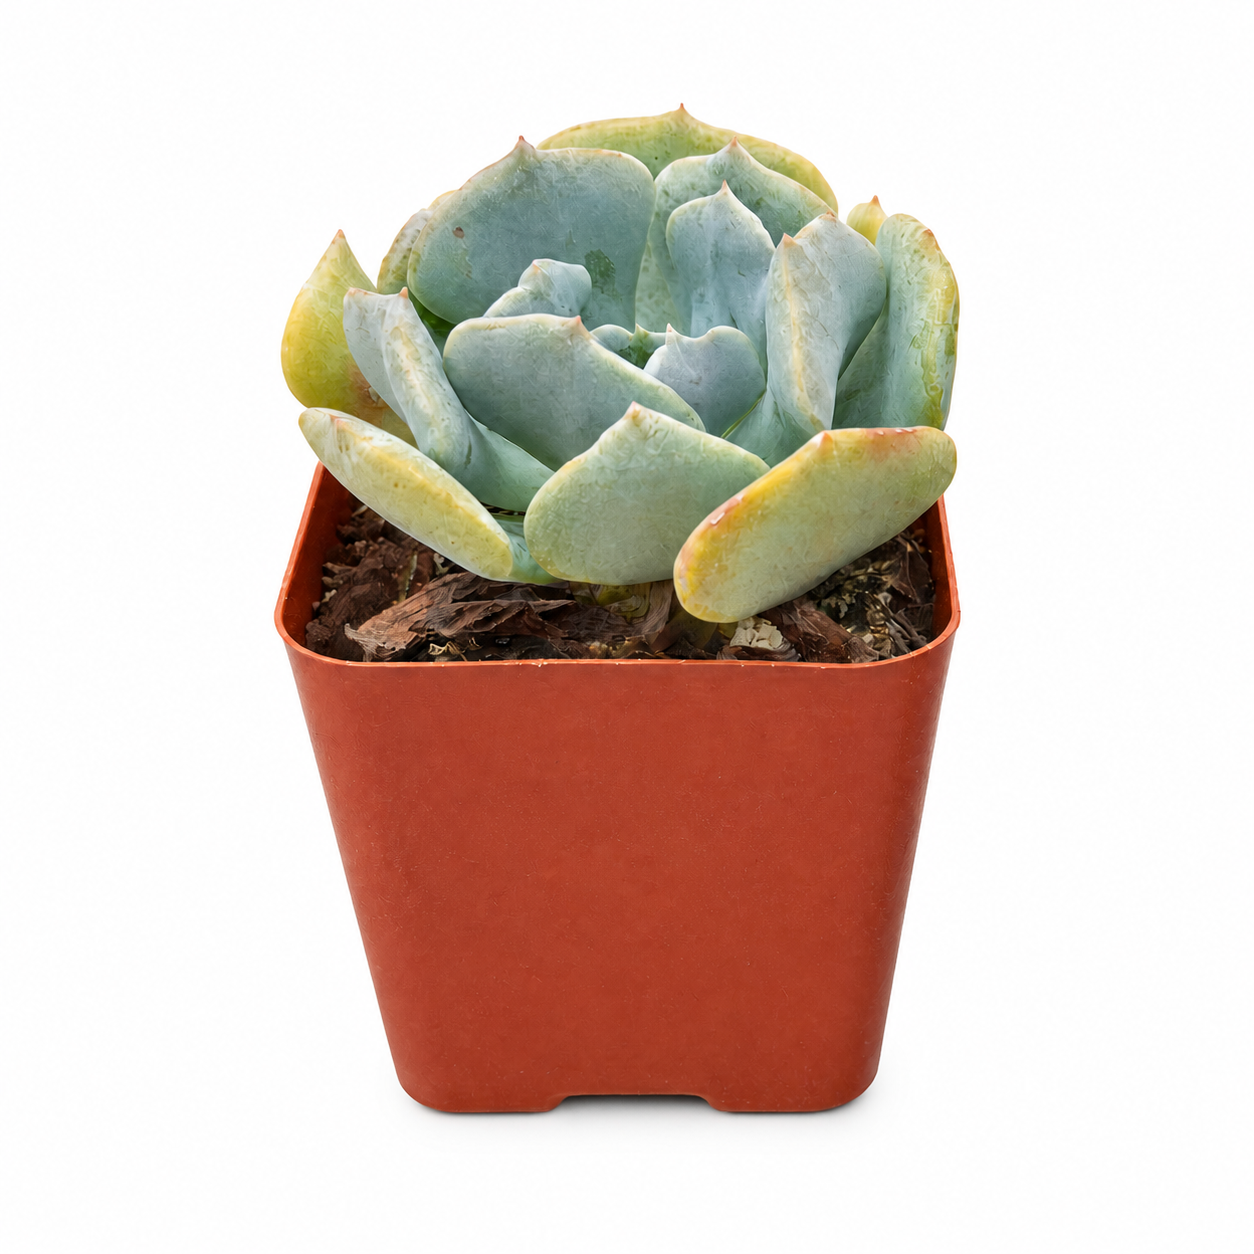
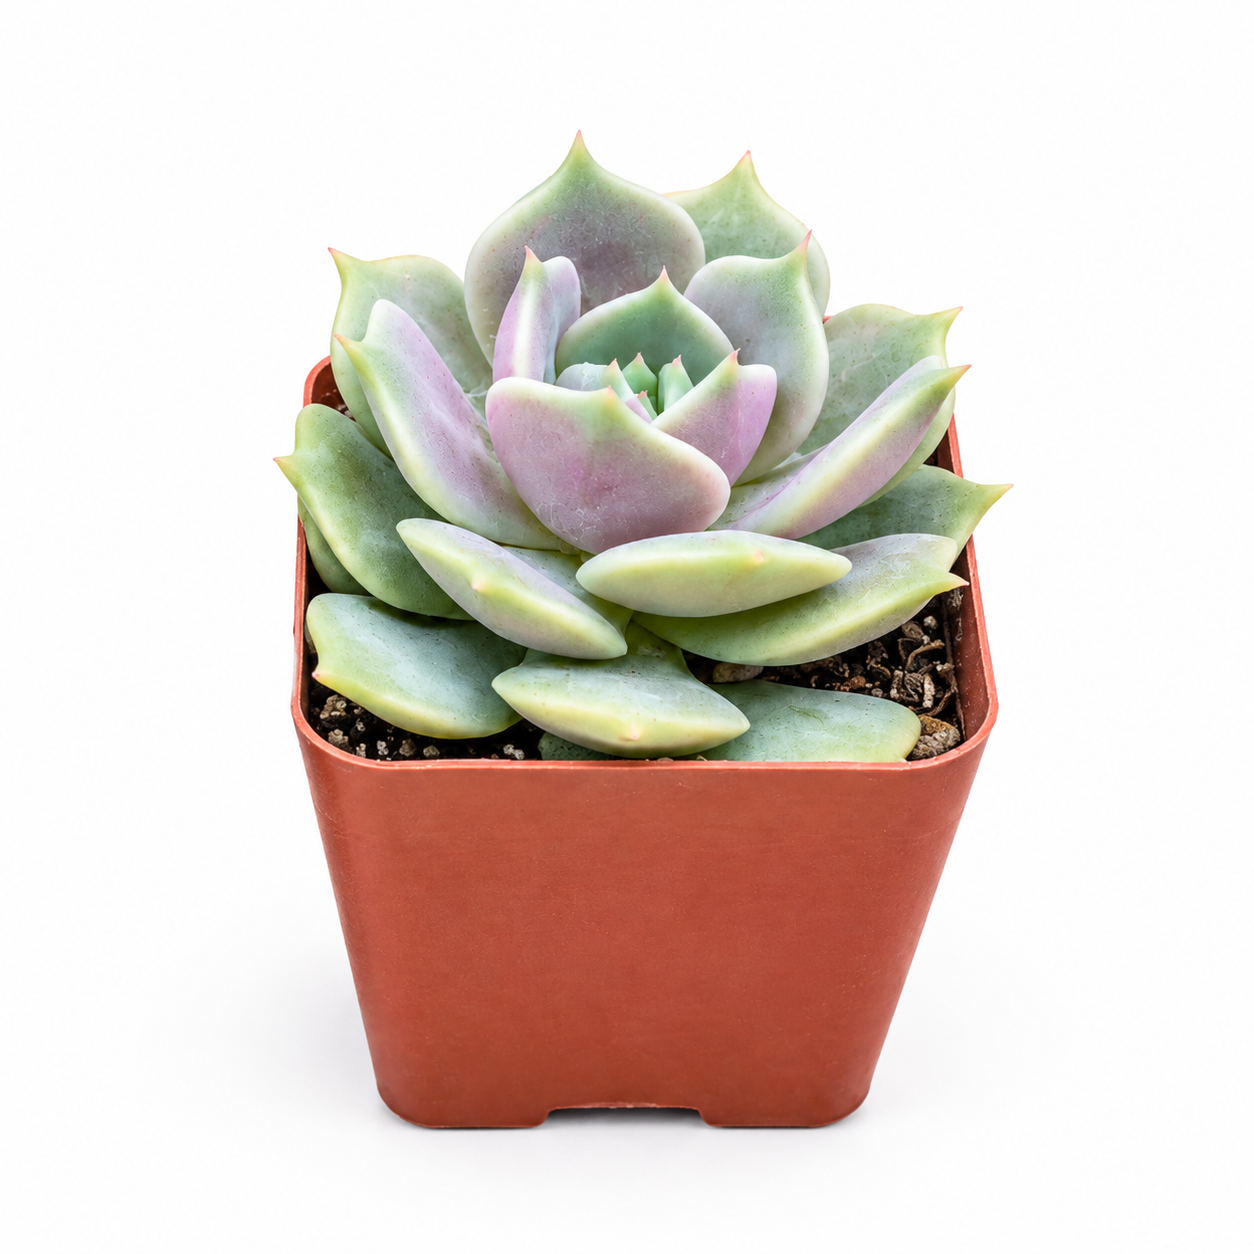
Add plants 256-259 and update images

Changed region(s): [[0.2177, 0.0622, 0.8086, 0.9019], [0.4976, 0.6842, 0.5287, 0.7153], [0.4354, 0.7153, 0.4665, 0.7464]]

diff --git a/index.html b/index.html
@@ -221,7 +221,11 @@ const plants=[
 {id:252,cn:"Blue Echeveria",la:"Echeveria sp.",light:"Requires full sun to partial shade. At least 4–6 hours of direct sunlight is needed to keep the rosette tight. Insufficient light causes the plant to flatten and stretch.",water:"Use the \"soak and dry\" method. Water deeply until it runs out the drainage holes, then wait until the soil is 100% dry before watering again. Avoid getting water on the leaves to prevent rot.",temp:"Ideal range is 18°C–27°C. Most Echeverias are not frost-hardy and must be protected from temperatures below -1°C.",fert:"Apply a low-nitrogen, high-phosphorus fertilizer in the spring. Over-fertilizing can cause weak, leggy growth.",tips:["Protect the Farina: The white powdery coating on the leaves protects the plant from sunburn and pests. Handle the plant by the base/stem, not the leaves, to avoid wiping this powder off","Drainage is Critical: These plants hate \"wet feet.\" Ensure your pot has large drainage holes and use a gritty, fast-draining soil mix (cactus/succulent mix with added perlite)","Remove Dead Leaves: As the plant grows, lower leaves may shrivel and die. Gently remove them to prevent pests from hiding in the decaying matter"]},
 {id:253,cn:"Buddha's Temple",la:"Crassula 'Buddha's Temple'",light:"Bright, indirect light to partial direct sun. While they need light to stay compact, intense afternoon sun can scorch the leaves. East-facing windows are ideal.",water:"Allow the top inch of soil to dry out between waterings. Because the leaves are stacked tightly, water can get trapped inside the stem, leading to rot. Water carefully around the base.",temp:"Prefers average room temperatures between 15°C–24°C. Protect from drafts and freezing temperatures.",fert:"Feed monthly during the active growing season (spring/summer) with a balanced liquid fertilizer diluted to half strength.",tips:["Avoid Top-Watering: Never pour water directly onto the top of the \"stack.\" This causes the inner leaves to rot quickly. Always water the soil directly","Top-Heavy Stability: As these grow tall, they become top-heavy and can tip over. Use a heavy ceramic pot or stake the plant if it gets too tall","Propagation by Cuttings: Unlike the Jelly Bean plant, this one is best propagated by stem cuttings. Cut a healthy section of the stack, let it callous over for a few days, and then plant it in dry soil"]},
 {id:254,cn:"Red Edge Peperomia",la:"Peperomia clusiifolia",light:"Prefers bright, indirect light. It can tolerate some direct morning sun, which helps maintain the red pigmentation in the leaves, but avoid harsh afternoon sun that can scorch them.",water:"Allow the top 1–2 inches of soil to dry out completely between waterings. As a semi-succulent, it stores water in its thick leaves and is prone to root rot if kept soggy.",temp:"Ideal range is 18°C–24°C. Avoid temperatures below 10°C and keep away from cold drafts.",fert:"Feed with a balanced liquid houseplant fertilizer diluted to half strength once a month during spring and summer. Do not fertilize in fall and winter.",tips:["Check Leaf Firmness: If the leaves feel soft or mushy, you are overwatering. If they look wrinkled or shriveled, the plant is thirsty","Humidity Matters: While adaptable, this plant appreciates moderate humidity. If your home is very dry, consider placing it on a pebble tray with water","Wipe the Leaves: The broad, thick leaves can collect dust, which blocks sunlight. Wipe them gently with a damp cloth every few weeks"]},
-{id:255,cn:"Coral Cactus",la:"Euphorbia lactea 'Cristata'",light:"Requires very bright light. Ideally, place it in a south-facing window where it can get several hours of direct sunlight daily. Insufficient light will cause the crest to stretch and weaken.",water:"Water deeply but infrequently. Let the soil dry out completely before watering again. In winter, reduce watering significantly as the plant goes dormant.",temp:"Thrives in warm conditions between 21°C–29°C. It is sensitive to cold and should never be exposed to freezing temperatures.",fert:"Use a cactus/succulent-specific fertilizer during the active growing season (spring/summer). Apply sparingly, as too much nitrogen can cause rapid, weak growth.",tips:["Watch for White Sap: Like all Euphorbias, this plant produces a milky white latex sap when cut or damaged. This sap is toxic and can irritate skin and eyes, so wear gloves when handling","Well-Draining Soil is Critical: Use a gritty cactus mix with added perlite or pumice. Standard potting soil holds too much moisture and will quickly rot the roots","Graft Awareness: Most Coral Cacti sold are actually two different species grafted together. Watch for any green shoots growing from the bottom stem and remove them immediately"]}
+{id:255,cn:"Coral Cactus",la:"Euphorbia lactea 'Cristata'",light:"Requires very bright light. Ideally, place it in a south-facing window where it can get several hours of direct sunlight daily. Insufficient light will cause the crest to stretch and weaken.",water:"Water deeply but infrequently. Let the soil dry out completely before watering again. In winter, reduce watering significantly as the plant goes dormant.",temp:"Thrives in warm conditions between 21°C–29°C. It is sensitive to cold and should never be exposed to freezing temperatures.",fert:"Use a cactus/succulent-specific fertilizer during the active growing season (spring/summer). Apply sparingly, as too much nitrogen can cause rapid, weak growth.",tips:["Watch for White Sap: Like all Euphorbias, this plant produces a milky white latex sap when cut or damaged. This sap is toxic and can irritate skin and eyes, so wear gloves when handling","Well-Draining Soil is Critical: Use a gritty cactus mix with added perlite or pumice. Standard potting soil holds too much moisture and will quickly rot the roots","Graft Awareness: Most Coral Cacti sold are actually two different species grafted together. Watch for any green shoots growing from the bottom stem and remove them immediately"]},
+{id:256,cn:"Blue Rose Echeveria",la:"Echeveria 'Blue Rose'",light:"Full sun to partial shade, at least 4–6 hours of bright light daily to maintain the blue-grey coloring and tight rosette shape.",water:"Use the soak-and-dry method. Water deeply, then wait until soil is completely dry before watering again. Avoid getting water on the leaves.",temp:"Ideal range 15°C–27°C. Not frost-hardy — protect from temperatures below 0°C.",fert:"Apply a low-nitrogen succulent fertilizer once in spring. Over-fertilizing causes weak, stretched growth.",tips:["Preserve the Farina: The white powdery coating on the leaves protects from sunburn. Handle by the base, not the leaves","Remove Dead Lower Leaves: Gently pull away dried leaves to prevent pest hiding spots","Easy Propagation: Leaf cuttings root readily in dry succulent soil"]},
+{id:257,cn:"Zebra Haworthia",la:"Haworthia fasciata",light:"Bright indirect light. Tolerates some direct morning sun but harsh afternoon light can cause leaf reddening or scorching.",water:"Water when soil is fully dry. Reduce frequency in summer dormancy and winter. Avoid water pooling in the leaf rosette.",temp:"Prefers 18°C–26°C. Tolerates short periods down to 5°C but should not be exposed to frost.",fert:"Apply diluted succulent fertilizer once a month during spring and autumn only.",tips:["Slow Grower: This plant grows very slowly — don't worry if it seems unchanged for months","Shallow Roots: Use a shallow pot with well-draining soil. Terracotta pots help prevent moisture buildup","White Stripes: The raised white tubercles on the leaves give this plant its distinctive zebra-like appearance"]},
+{id:258,cn:"Tiger Tooth Aloe",la:"Aloe juvenna",light:"Full sun to partial shade. Needs at least 4 hours of bright light for compact growth. Insufficient light causes etiolation (stretching).",water:"Drought-tolerant. Water only when soil is completely dry. Reduce watering significantly in winter.",temp:"Prefers 18°C–28°C. Can tolerate brief periods down to 5°C but is not frost-hardy.",fert:"Apply a balanced succulent fertilizer once in early spring. Avoid over-fertilizing.",tips:["Toothy Edges: The small white teeth along the leaf margins give this plant its name","Offsets Freely: Produces many pups (offsets) around the base — divide them to propagate","Watch for Rot: Overwatering is the #1 killer. When in doubt, wait a few more days before watering"]},
+{id:259,cn:"Red Edge Echeveria",la:"Echeveria cv. 'Red Edge'",light:"Full sun — at least 5–6 hours daily. Strong light is essential to maintain the red-tipped margins that give this cultivar its name.",water:"Water deeply when soil is completely dry. Ensure excellent drainage. Reduce watering in winter.",temp:"Ideal range 15°C–27°C. Not frost-hardy — bring indoors when temperatures drop below 0°C.",fert:"Apply low-nitrogen succulent fertilizer once in spring. Avoid fertilizing in winter.",tips:["Color Depends on Light: The red edging intensifies with more sun and slight drought stress. In low light, leaves turn plain green","Preserve the Powder Coating: Like all Echeverias, handle by the base to avoid wiping off the protective farina","Remove Flower Stalks: After blooming, cut off the flower stalk close to the rosette to redirect energy back into growth"]}
 ];
 
 /* SECTION: render */
